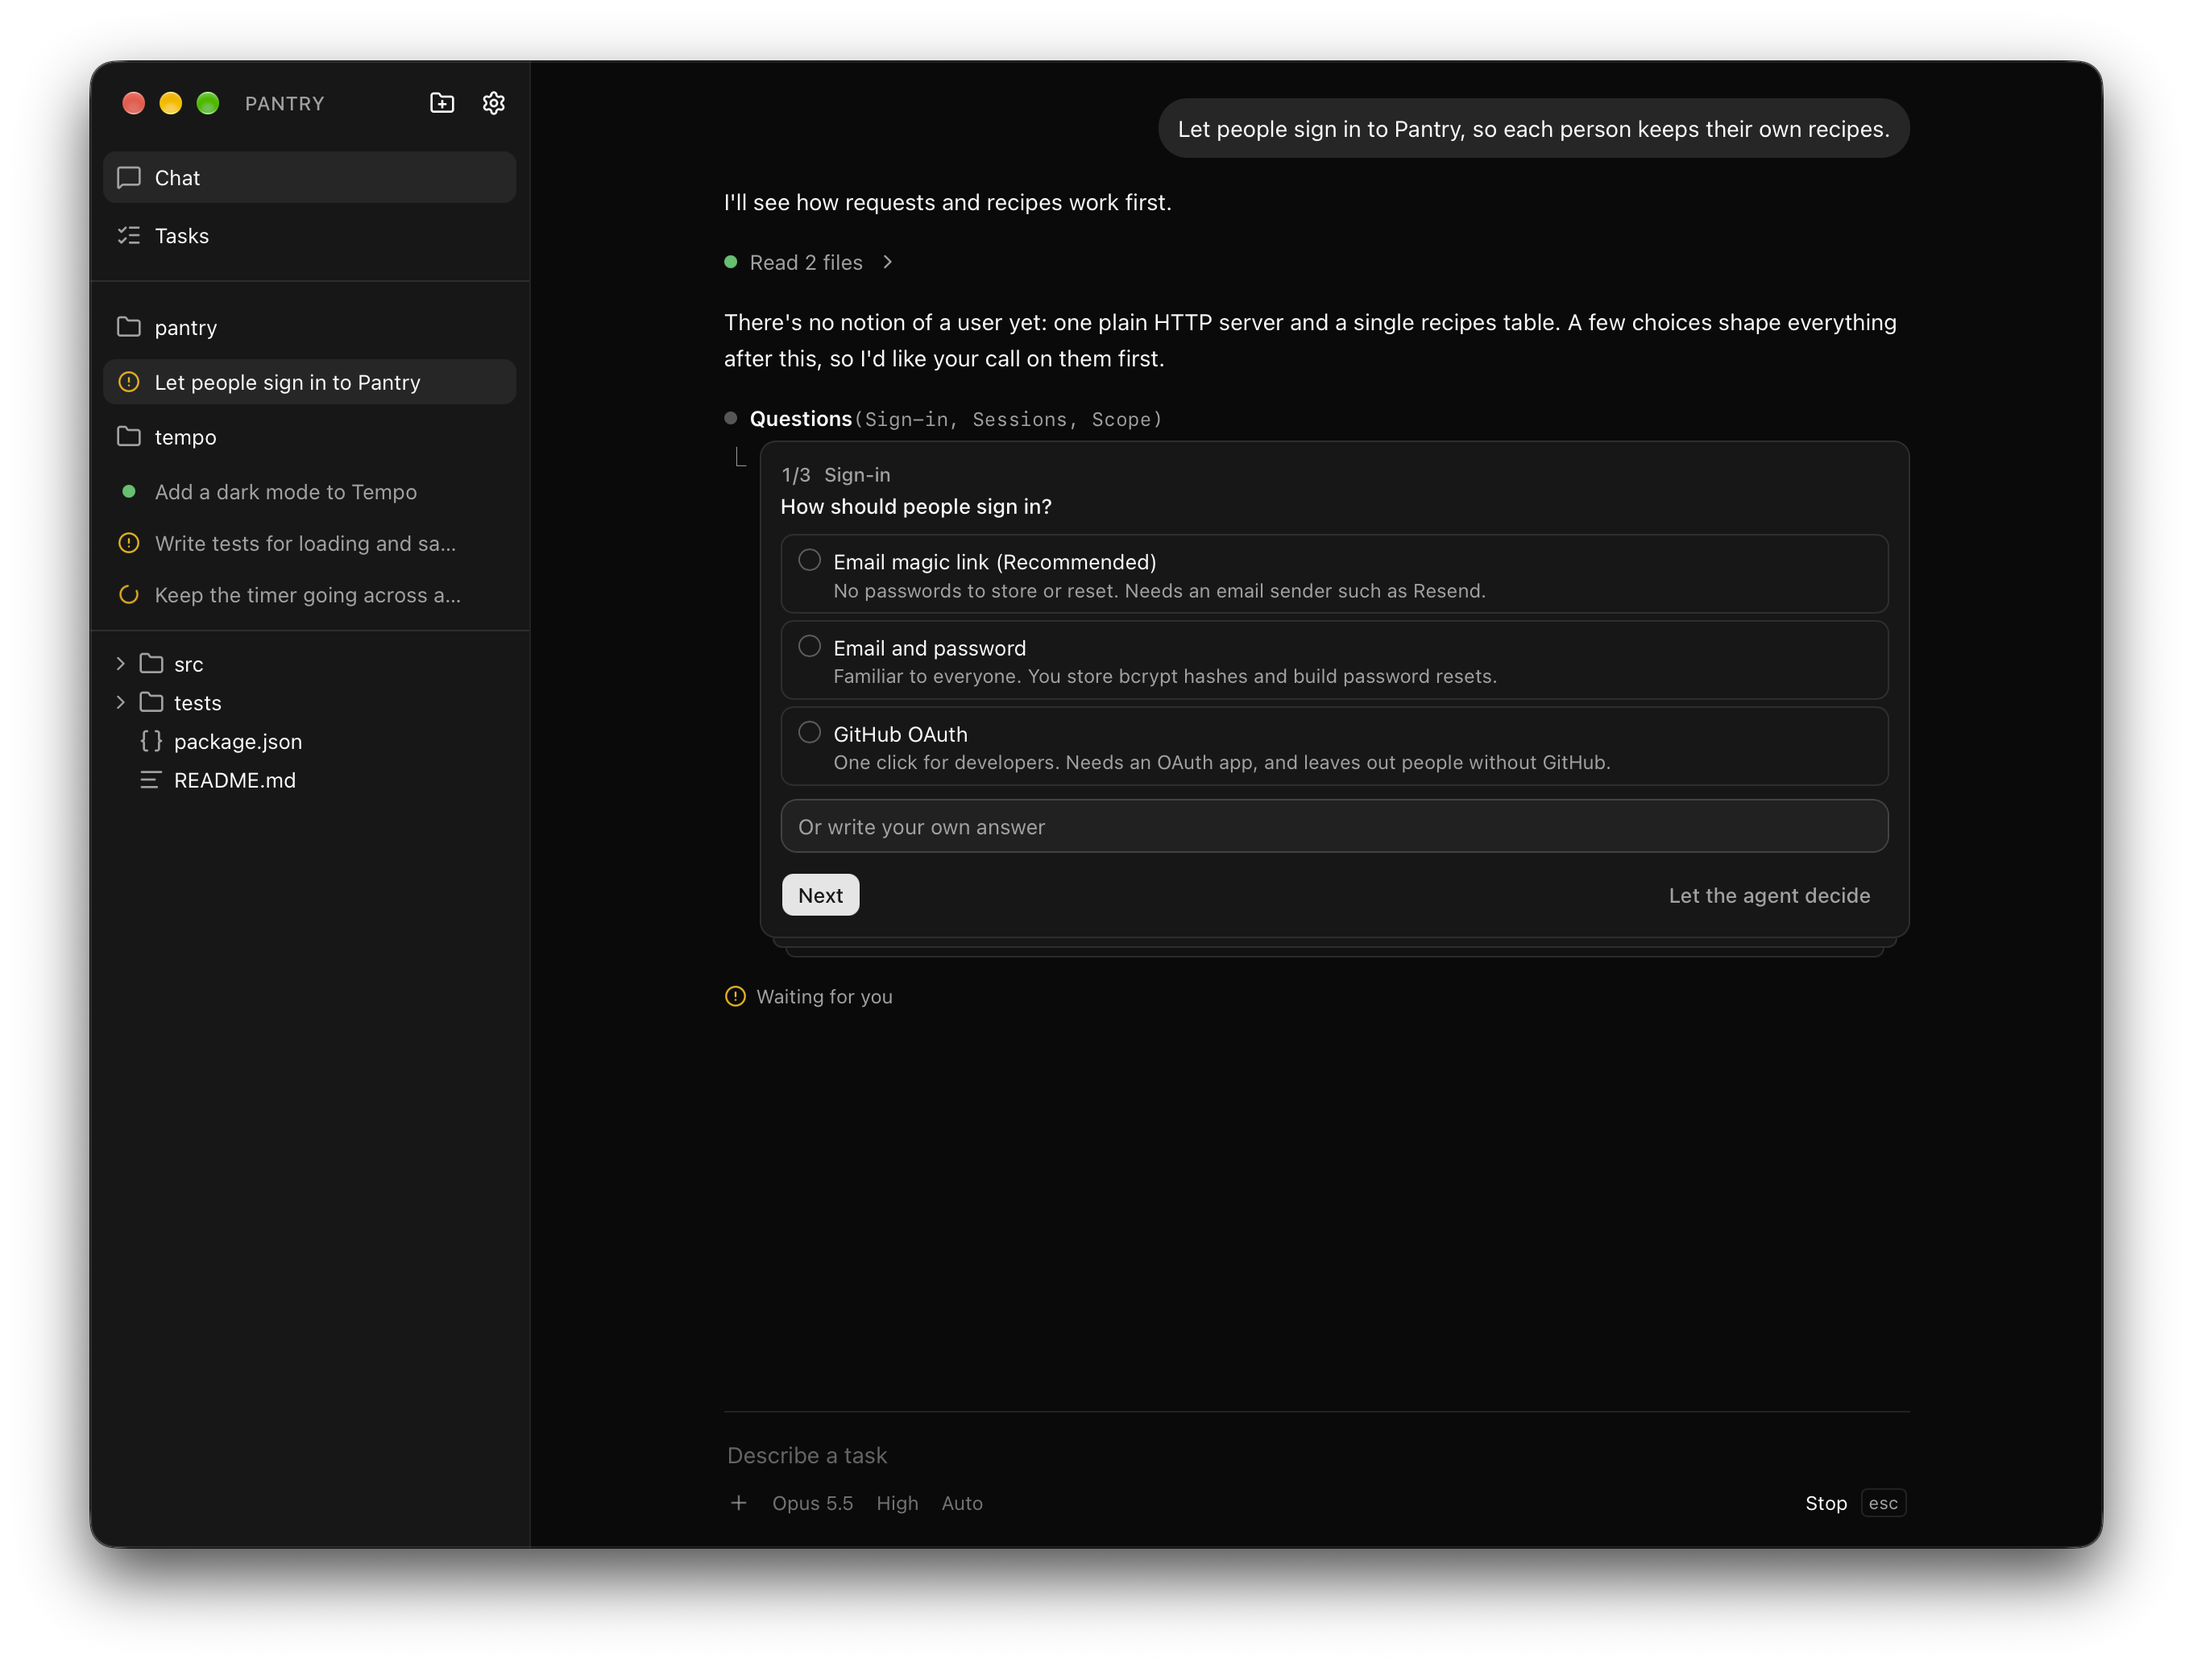
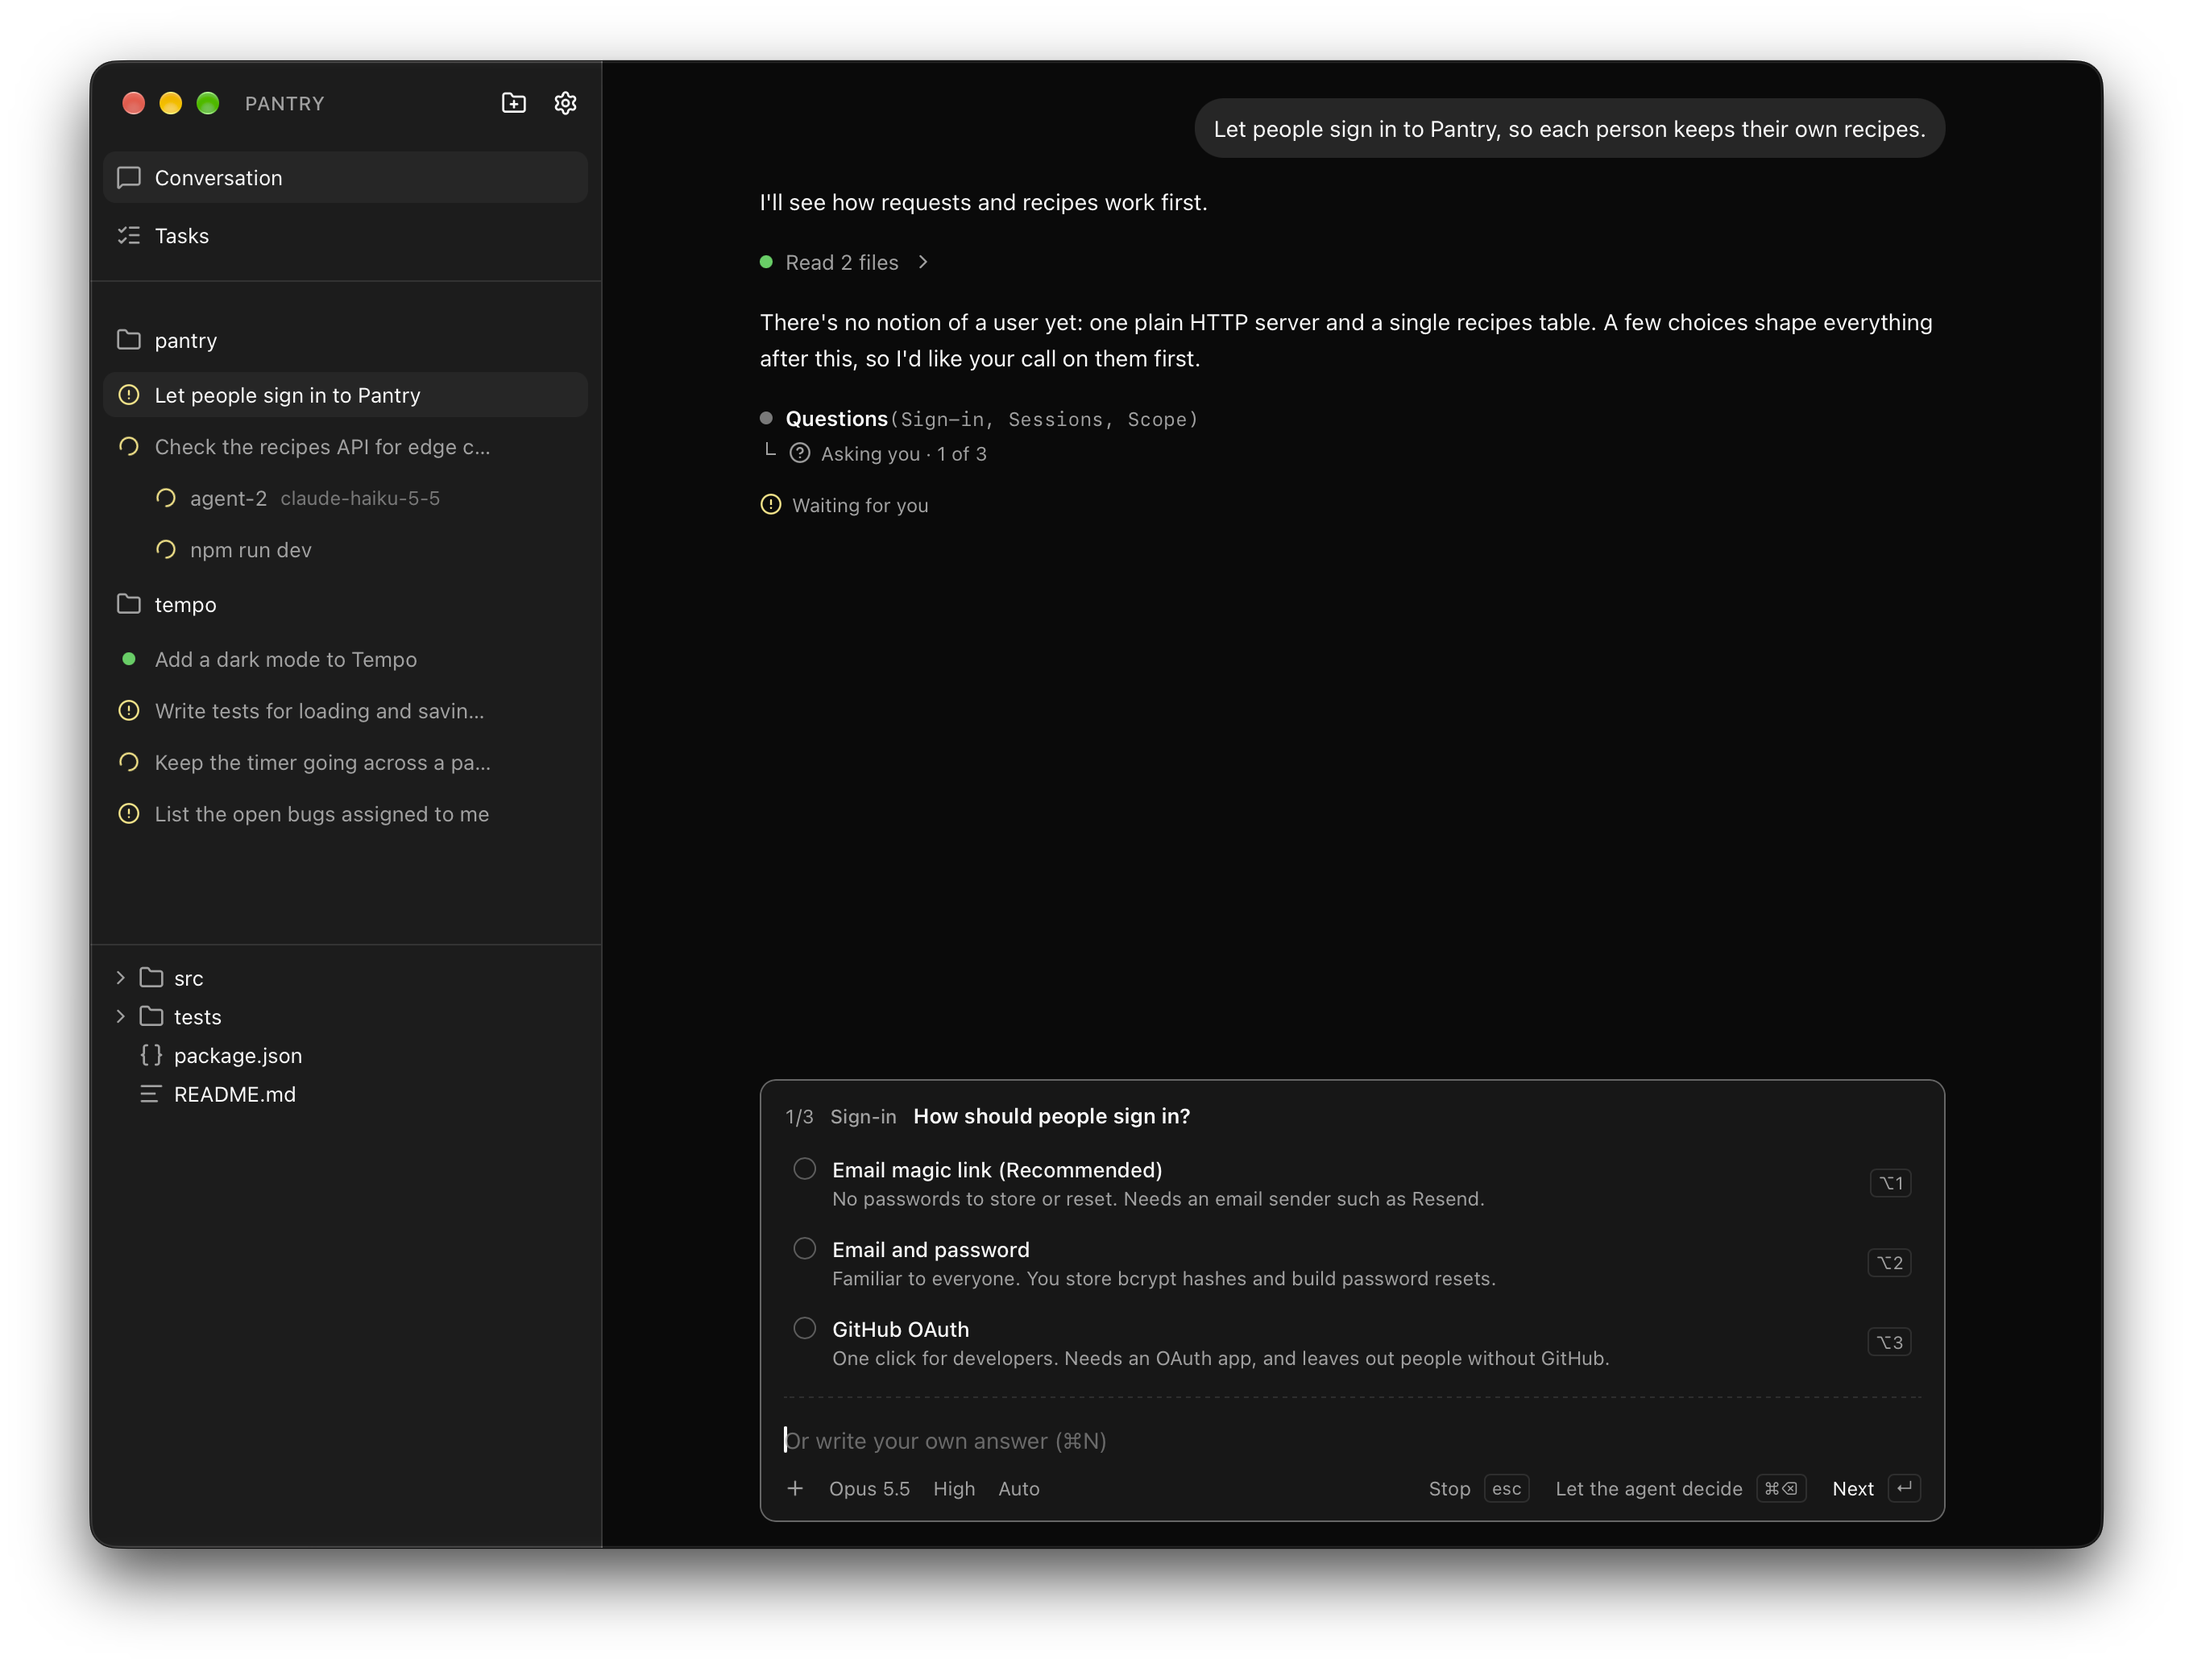
docs(readme): refresh screenshots and add subagents and live pages

diff --git a/README.md b/README.md
@@ -7,12 +7,17 @@ A desktop app for running AI coding agents on your projects, several at
 once. Made for macOS; and others.
 
 <p align="center">
-  <img src="docs/conversation.png" alt="An agent that added dark mode opening its pull request, with its commit and the four files it changes, and one file's diff open beside the conversation; the sidebar shows the project's other conversations, one waiting for review and one still working" width="32%">
-  <img src="docs/tasks.png" alt="The Tasks view: one task's pull request was declined, one is in progress with a screenshot attached, its subtasks and the file it's editing, one waits for approval of its pull request, two are still to do, and dark mode is done as pull request 12" width="32%">
-  <img src="docs/markup.png" alt="A screenshot the agent took of a timer app, open full size with an arrow drawn to the time and two lines under it; below it, the markup toolbar with pen, highlighter, arrow, box, ellipse and text, ink colours and sizes, and Add to chat" width="32%">
+  <img src="docs/conversation.png" alt="Ignite, an AI coding agent app: an agent that added dark mode pushes its commit and opens a GitHub pull request, its four changed files listed with their line counts, and one file's diff open beside the conversation" width="32%">
+  <img src="docs/tasks.png" alt="The Tasks view: one task needs you, one runs on its own with an annotated screenshot attached, its subtasks checked off as it edits src/timer.ts, three are up next and three are done" width="32%">
+  <img src="docs/markup.png" alt="Drawing on a screenshot of a timer app: a dashed ellipse around 25:00 and the note 'was 11:32!', with the markup toolbar's pen, highlighter, arrow, box, ellipse, text, colours and Add to new task" width="32%">
 </p>
 <p align="center">
-  <img src="docs/questions.png" alt="The agent asking how people should sign in, with three options and their trade-offs, one question of three, while the conversation shows it's waiting for you" width="32%">
+  <img src="docs/questions.png" alt="The agent asking how people should sign in, in the composer: three options with their trade-offs and ⌥1 to ⌥3 shortcuts, a box to write your own answer, and Let the agent decide" width="32%">
+  <img src="docs/subagents.png" alt="Two subagents checking a recipes API in parallel while npm run dev runs as a background command, its live output open in a tab beside the conversation" width="32%">
+  <img src="docs/artifact.png" alt="The agent showing a screenshot of the timer app in dark mode and a live, clickable preview page of both colour palettes inside the conversation" width="32%">
+</p>
+<p align="center">
+  <img src="docs/mcp.png" alt="Open GitHub issues fetched through the GitHub MCP server, shown as a table, and three of them proposed as tasks waiting for approval" width="32%">
   <img src="docs/settings.png" alt="Ignite settings on the Providers section, with Claude and ChatGPT connected through their subscriptions" width="32%">
 </p>
 
@@ -33,6 +38,10 @@ once. Made for macOS; and others.
   the conversation or a task to show the agent what you mean.
 - When a decision is open, the agent asks you, with a few options and what
   each one costs. Pick one, write your own answer, or leave it to the agent.
+- Agents hand parts of the work to subagents running in parallel, and keep
+  dev servers and watchers running in the background, their output a tab away.
+- Agents show you screenshots and live, clickable pages right in the
+  conversation, and you can draw on either.
 - ⌘J (or ⌘1) opens a terminal beside the conversation. Agents read what it printed,
   and shell code in a reply runs there with one click.
 - Type `/` for the project's skills and `@` for files, terminals and attached
